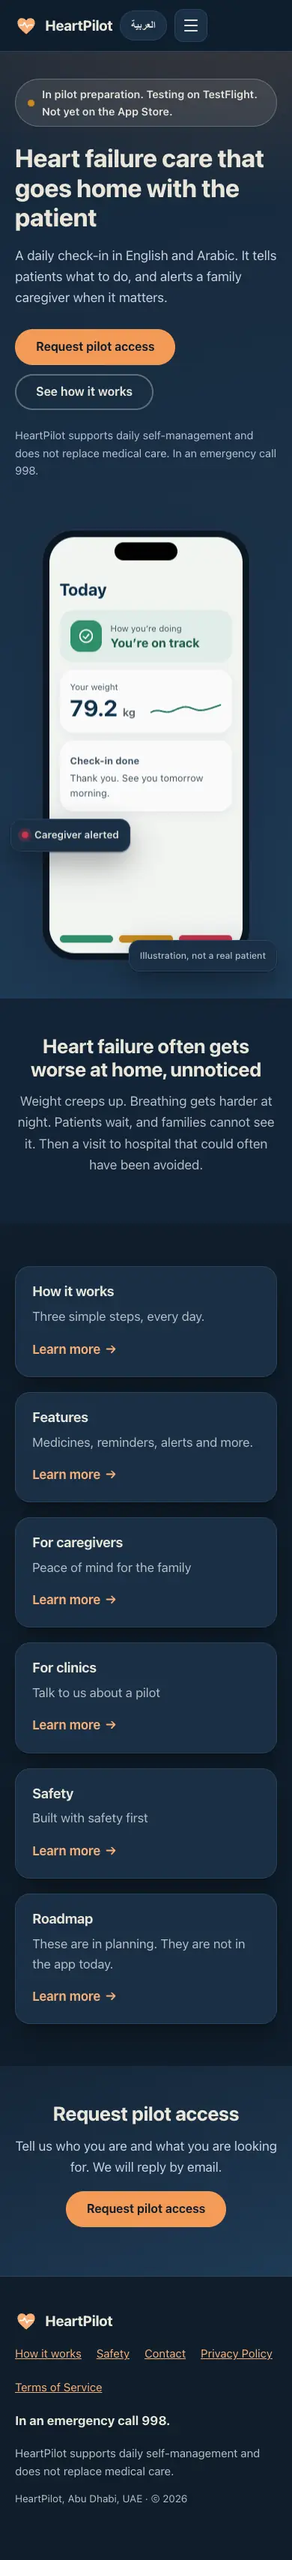
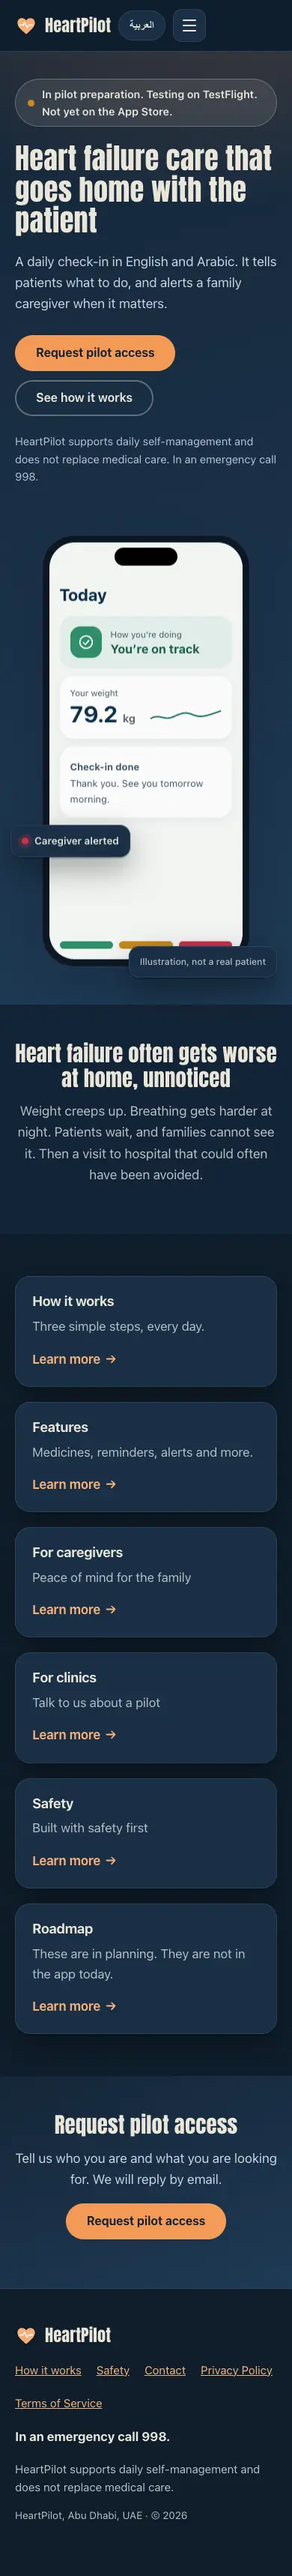
Use Anton for English headings and the wordmark

diff --git a/assets/css/styles.css b/assets/css/styles.css
@@ -1,5 +1,6 @@
 /* HeartPilot landing page. No external requests. System fonts for English;
    IBM Plex Sans Arabic (self-hosted, OFL) for Arabic, with a system fallback. */
+@font-face{font-family:"Anton";font-weight:400;font-display:swap;src:url(/assets/fonts/anton-400.woff2) format("woff2");unicode-range:U+0000-00FF,U+0131,U+0152-0153,U+02BB-02BC,U+02C6,U+02DA,U+02DC,U+2000-206F,U+2074,U+20AC,U+2122,U+2191,U+2193,U+2212,U+2215,U+FEFF,U+FFFD}
 @font-face{font-family:"Plex Arabic";font-weight:400;font-display:swap;src:url(/assets/fonts/plex-arabic-400.woff2) format("woff2");unicode-range:U+0600-06FF,U+0750-077F,U+FB50-FDFF,U+FE70-FEFF,U+200C-200F}
 @font-face{font-family:"Plex Arabic";font-weight:600;font-display:swap;src:url(/assets/fonts/plex-arabic-600.woff2) format("woff2");unicode-range:U+0600-06FF,U+0750-077F,U+FB50-FDFF,U+FE70-FEFF,U+200C-200F}
 :root{
@@ -10,6 +11,7 @@
   --shadow:0 1px 2px rgba(21,38,56,.06),0 12px 32px rgba(21,38,56,.09);
   --font:-apple-system,BlinkMacSystemFont,"Segoe UI",Roboto,"Helvetica Neue",Arial,sans-serif;
   --font-ar:"Plex Arabic",var(--font);
+  --font-display:"Anton","Plex Arabic",Impact,"Arial Narrow Bold",var(--font);
   --radius:20px;
 }
 @media (prefers-color-scheme:dark){:root{
@@ -162,3 +164,13 @@ h2.h3{font-size:1.15rem;font-weight:680;letter-spacing:-.01em}
 .feat h2.h3{font-size:1.05rem;margin-bottom:.3em}
 .see h2.h3{margin-top:0}.see h2.h3:not(:first-child){margin-top:24px}
 .site-header .wrap.bar{width:min(1280px,100% - 40px)}.nav ul{gap:2px}
+
+/* Anton for display text. It has one weight and no Arabic, so Arabic headings fall through to Plex. */
+h1,h2,.brand .word{font-family:var(--font-display);font-weight:400;letter-spacing:.005em}
+h1{font-size:clamp(2.4rem,7vw,4.4rem);line-height:1.08}
+h2{font-size:clamp(1.8rem,4.4vw,2.8rem);line-height:1.15}
+.ph{font-size:clamp(2.3rem,6vw,3.6rem);font-weight:400}
+.brand .word{font-size:1.4rem}
+html[lang=ar] h1,html[lang=ar] h2,html[lang=ar] .ph,html[lang=ar] .brand .word{font-family:var(--font-ar);font-weight:600;letter-spacing:0}
+h2.h3{font-family:var(--font);font-size:1.15rem;font-weight:680;letter-spacing:-.01em}
+html[lang=ar] h2.h3{font-family:var(--font-ar);font-weight:600}

diff --git a/README.md b/README.md
@@ -15,7 +15,7 @@ scripts, fonts, analytics, trackers or cookies.
 | `CNAME` | The custom domain. Do not edit |
 | `assets/css/styles.css` | All styling, light and dark mode, RTL via logical properties |
 | `assets/js/main.js` | Language toggle, mobile menu, mailto subject. Nothing else |
-| `assets/fonts/` | IBM Plex Sans Arabic (SIL OFL), Arabic subset, self-hosted, used as the Arabic fallback. English uses system fonts |
+| `assets/fonts/` | Anton (English headings) and IBM Plex Sans Arabic (Arabic), both SIL OFL, self-hosted, with licence files |
 | `assets/*.png` | Favicon, apple-touch-icon (the app icon), `og-image.png` (1200x630) |
 | `robots.txt`, `sitemap.xml` | SEO. Add new pages to the sitemap |
 | `docs/arabic-review.md` | Every Arabic string next to its English, for a native reviewer |
@@ -27,7 +27,7 @@ Ink blue `#152638` (main), oat ivory `#E9E5D8` (secondary), amber orange `#F18D4
 (accent, used last and sparingly). All are CSS variables at the top of
 `assets/css/styles.css`, with a dark-mode set under `prefers-color-scheme`.
 
-Arabic uses IBM Plex Sans Arabic (self-hosted, SIL OFL). English uses system fonts.
+Headings and the wordmark use Anton (self-hosted, SIL OFL, Latin only). Arabic uses IBM Plex Sans Arabic (self-hosted, SIL OFL), including Arabic headings, since Anton has no Arabic letters. Body text uses system fonts.
 
 **Thmanyah is deliberately not used.** Its licence (thmanyah's Font License, 2026)
 forbids hosting the font files on any website and forbids web embedding except
